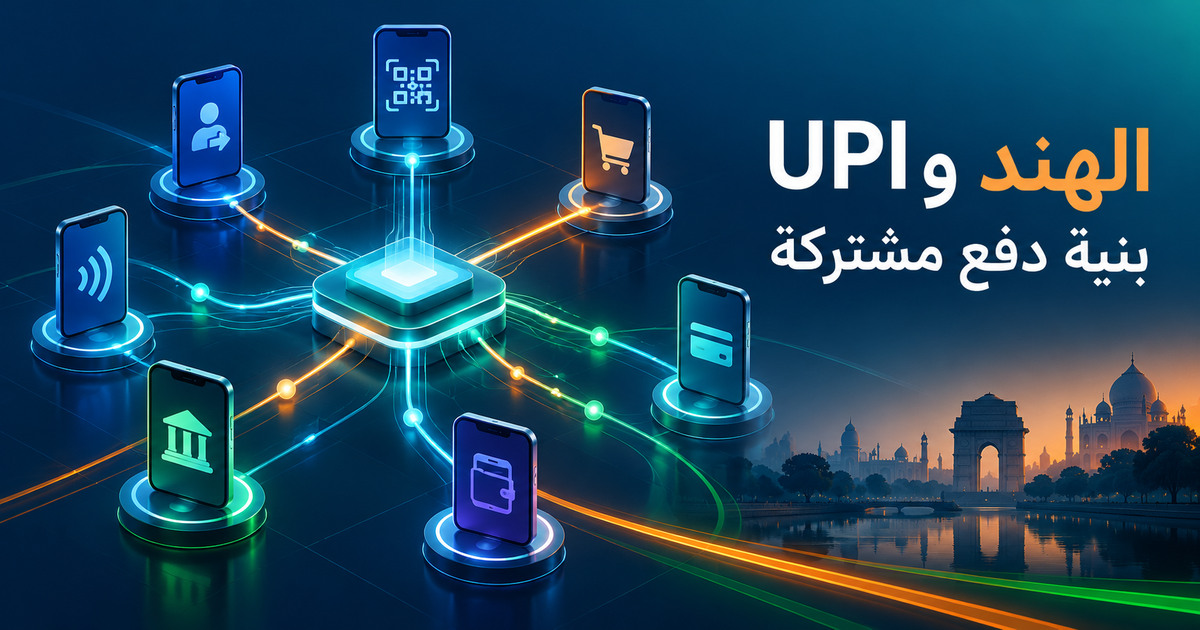
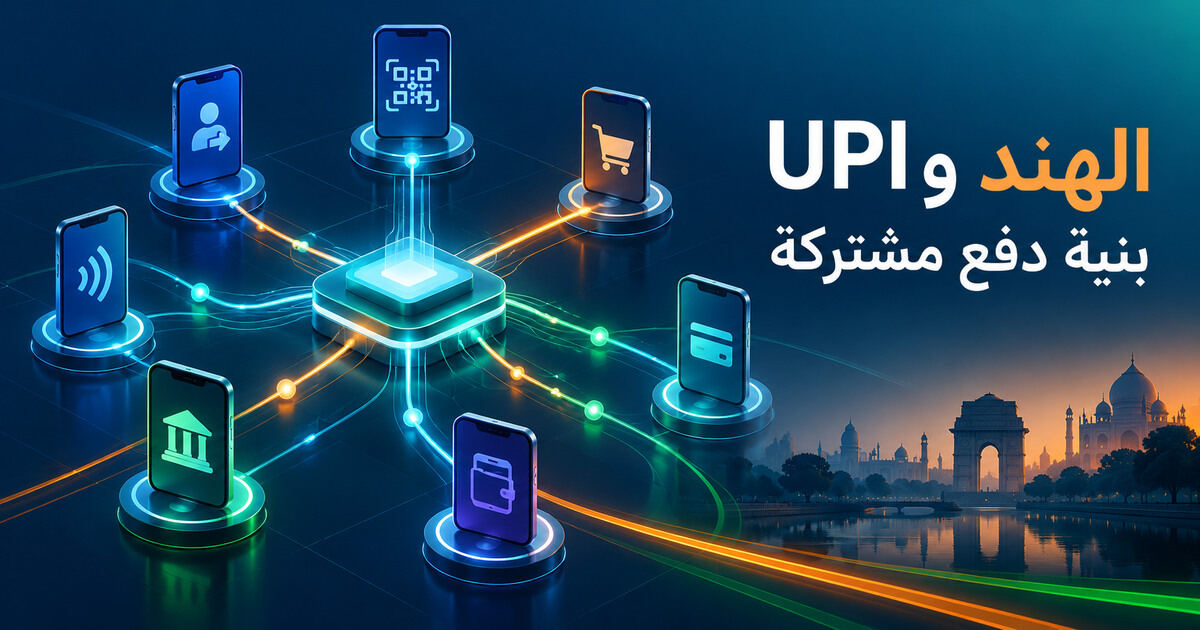
fix(10x): register and optimize India UPI covers

Changed region(s): [[0.9867, 0.6937, 1.0, 0.7238], [0.8942, 0.3016, 0.925, 0.3317], [0.4008, 0.3921, 0.4317, 0.4222]]

diff --git a/case-india-upi-interoperable-payments-infrastructure.html b/case-india-upi-interoperable-payments-infrastructure.html
@@ -1,4 +1,4 @@
-<!doctype html><html lang="ar" dir="rtl"><head><meta charset="utf-8"><meta name="viewport" content="width=device-width,initial-scale=1"><title>كيف حوّلت الهند المدفوعات الفورية إلى بنية مشتركة مفتوحة؟ | التميّز 10X</title><meta name="description" content="تحليل موثق لكيف أعادت الهند تصميم المدفوعات عبر UPI: سكة فورية مشتركة بين المصارف والتطبيقات، ونتائجها وحدود التركّز والاستدامة."><link rel="canonical" href="https://tamayuz10x.com/case-india-upi-interoperable-payments-infrastructure.html"><link rel="alternate" hreflang="ar" href="https://tamayuz10x.com/case-india-upi-interoperable-payments-infrastructure.html"><link rel="alternate" hreflang="en" href="https://tamayuz10x.com/en/case-india-upi-interoperable-payments-infrastructure.html"><link rel="alternate" hreflang="x-default" href="https://tamayuz10x.com/case-india-upi-interoperable-payments-infrastructure.html"><meta property="og:type" content="article"><meta property="og:title" content="كيف حوّلت الهند المدفوعات الفورية إلى بنية مشتركة مفتوحة؟"><meta property="og:description" content="تحليل موثق لكيف أعادت الهند تصميم المدفوعات عبر UPI: سكة فورية مشتركة بين المصارف والتطبيقات، ونتائجها وحدود التركّز والاستدامة."><meta property="og:url" content="https://tamayuz10x.com/case-india-upi-interoperable-payments-infrastructure.html"><meta property="og:image" content="https://tamayuz10x.com/assets/previews/story/case-india-upi-interoperable-payments-infrastructure-ar.jpg?v=20261022-upi"><meta property="og:image:secure_url" content="https://tamayuz10x.com/assets/previews/story/case-india-upi-interoperable-payments-infrastructure-ar.jpg?v=20261022-upi"><meta property="og:image:type" content="image/jpeg"><meta property="og:image:width" content="1200"><meta property="og:image:height" content="630"><meta property="og:image:alt" content="غلاف توضيحي لحالة UPI في الهند، يظهر تطبيقات دفع متعددة متصلة ببنية رقمية مشتركة."><meta property="article:published_time" content="2026-10-22"><meta property="article:modified_time" content="2026-10-22"><meta property="article:author" content="الدكتور علاء محمد أحمد"><meta name="twitter:card" content="summary_large_image"><meta name="twitter:title" content="كيف حوّلت الهند المدفوعات الفورية إلى بنية مشتركة مفتوحة؟"><meta name="twitter:description" content="تحليل موثق لكيف أعادت الهند تصميم المدفوعات عبر UPI: سكة فورية مشتركة بين المصارف والتطبيقات، ونتائجها وحدود التركّز والاستدامة."><meta name="twitter:image" content="https://tamayuz10x.com/assets/previews/story/case-india-upi-interoperable-payments-infrastructure-ar.jpg?v=20261022-upi"><meta name="twitter:image:alt" content="غلاف توضيحي لحالة UPI في الهند، يظهر تطبيقات دفع متعددة متصلة ببنية رقمية مشتركة."><link rel="stylesheet" href="/assets/css/style.css"><link rel="stylesheet" href="/assets/css/story-cards.css?v=20261013-ega-10x"><style>.case{max-width:980px;margin:auto;padding:28px 20px 80px}.case h1{font-size:clamp(2rem,5vw,3.6rem);color:#0b2545}.case h2{color:#0b2545}.case h3{color:#123f5a}.case p,.case li{font-size:1.06rem;line-height:1.95;color:#2d4057}.case section{margin:38px 0}.story-cover img{width:100%;border-radius:22px}.timeline li{margin-bottom:10px}.lang-switch{display:inline-block;margin-bottom:18px;color:#0b2545}.metrics{display:grid;grid-template-columns:repeat(auto-fit,minmax(180px,1fr));gap:14px;margin:30px 0}.metric{background:#eef7f8;border:1px solid #c7e8e7;border-radius:16px;padding:18px}.metric strong{display:block;font-size:1.75rem;color:#0b6170}.metric span{color:#345}</style><script type="application/ld+json">{"@context":"https://schema.org","@graph":[{"@type":"Article","headline":"كيف حوّلت الهند المدفوعات الفورية إلى بنية مشتركة مفتوحة؟","description":"تحليل موثق لكيف أعادت الهند تصميم المدفوعات عبر UPI: سكة فورية مشتركة بين المصارف والتطبيقات، ونتائجها وحدود التركّز والاستدامة.","datePublished":"2026-10-22","dateModified":"2026-10-22","inLanguage":"ar","author":{"@type":"Person","name":"الدكتور علاء محمد أحمد"},"publisher":{"@type":"Organization","name":"التميّز 10X"},"mainEntityOfPage":"https://tamayuz10x.com/case-india-upi-interoperable-payments-infrastructure.html","image":{"@type":"ImageObject","url":"https://tamayuz10x.com/assets/previews/story/case-india-upi-interoperable-payments-infrastructure-ar.jpg?v=20261022-upi","width":1200,"height":630,"caption":"غلاف توضيحي لحالة UPI في الهند، يظهر تطبيقات دفع متعددة متصلة ببنية رقمية مشتركة."}},{"@type":"BreadcrumbList","itemListElement":[{"@type":"ListItem","position":1,"name":"الرئيسية","item":"https://tamayuz10x.com/"},{"@type":"ListItem","position":2,"name":"الحالات","item":"https://tamayuz10x.com/articles.html"},{"@type":"ListItem","position":3,"name":"India UPI","item":"https://tamayuz10x.com/case-india-upi-interoperable-payments-infrastructure.html"}]}]}</script></head><body><main class="case"><a class="lang-switch" href="https://tamayuz10x.com/en/case-india-upi-interoperable-payments-infrastructure.html" hreflang="en">English</a><header><span>حالة 10X · البنية التحتية الرقمية والمدفوعات</span><h1>كيف حوّلت الهند المدفوعات الفورية إلى بنية مشتركة مفتوحة؟</h1><p>لم تكن المشكلة نقص تطبيق آخر للدفع؛ بل غياب طبقة مشتركة تجعل التحويل الفوري ممكنًا عبر المصارف والتطبيقات المختلفة.</p><figure class="story-cover"><img src="/assets/previews/story/case-india-upi-interoperable-payments-infrastructure-ar.jpg?v=20261022-upi" alt="غلاف توضيحي لحالة UPI في الهند، يظهر تطبيقات دفع متعددة متصلة ببنية رقمية مشتركة." width="1200" height="630" decoding="async" fetchpriority="high"></figure><div class="metrics" aria-label="مؤشرات رئيسية"><div class="metric"><strong><span data-count="228.28" data-decimals="2" data-suffix=" مليار">228.28 مليار</span></strong><span>معاملة في 2025</span></div><div class="metric"><strong><span data-count="300" data-decimals="0" data-suffix=" تريليون ₹">300 تريليون ₹</span></strong><span>قيمة معاملات 2025</span></div><div class="metric"><strong><span data-count="84" data-decimals="0" data-suffix="%">84%</span></strong><span>من حجم مدفوعات التجزئة في 2024–2025</span></div><div class="metric"><strong><span data-count="756" data-decimals="0">756</span></strong><span>مصرفًا في سبتمبر 2026</span></div></div></header><article><section><h2>الملخص التنفيذي</h2>
+<!doctype html><html lang="ar" dir="rtl"><head><meta charset="utf-8"><meta name="viewport" content="width=device-width,initial-scale=1"><title>كيف حوّلت الهند المدفوعات الفورية إلى بنية مشتركة مفتوحة؟ | التميّز 10X</title><meta name="description" content="تحليل موثق لكيف أعادت الهند تصميم المدفوعات عبر UPI: سكة فورية مشتركة بين المصارف والتطبيقات، ونتائجها وحدود التركّز والاستدامة."><link rel="canonical" href="https://tamayuz10x.com/case-india-upi-interoperable-payments-infrastructure.html"><link rel="alternate" hreflang="ar" href="https://tamayuz10x.com/case-india-upi-interoperable-payments-infrastructure.html"><link rel="alternate" hreflang="en" href="https://tamayuz10x.com/en/case-india-upi-interoperable-payments-infrastructure.html"><link rel="alternate" hreflang="x-default" href="https://tamayuz10x.com/case-india-upi-interoperable-payments-infrastructure.html"><meta property="og:type" content="article"><meta property="og:title" content="كيف حوّلت الهند المدفوعات الفورية إلى بنية مشتركة مفتوحة؟"><meta property="og:description" content="تحليل موثق لكيف أعادت الهند تصميم المدفوعات عبر UPI: سكة فورية مشتركة بين المصارف والتطبيقات، ونتائجها وحدود التركّز والاستدامة."><meta property="og:url" content="https://tamayuz10x.com/case-india-upi-interoperable-payments-infrastructure.html"><meta property="og:image" content="https://tamayuz10x.com/assets/previews/story/case-india-upi-interoperable-payments-infrastructure-ar.jpg?v=20261013-ega-10x"><meta property="og:image:secure_url" content="https://tamayuz10x.com/assets/previews/story/case-india-upi-interoperable-payments-infrastructure-ar.jpg?v=20261013-ega-10x"><meta property="og:image:type" content="image/jpeg"><meta property="og:image:width" content="1200"><meta property="og:image:height" content="630"><meta property="og:image:alt" content="غلاف توضيحي لحالة UPI في الهند، يظهر تطبيقات دفع متعددة متصلة ببنية رقمية مشتركة."><meta property="article:published_time" content="2026-10-22"><meta property="article:modified_time" content="2026-10-22"><meta property="article:author" content="الدكتور علاء محمد أحمد"><meta name="twitter:card" content="summary_large_image"><meta name="twitter:title" content="كيف حوّلت الهند المدفوعات الفورية إلى بنية مشتركة مفتوحة؟"><meta name="twitter:description" content="تحليل موثق لكيف أعادت الهند تصميم المدفوعات عبر UPI: سكة فورية مشتركة بين المصارف والتطبيقات، ونتائجها وحدود التركّز والاستدامة."><meta name="twitter:image" content="https://tamayuz10x.com/assets/previews/story/case-india-upi-interoperable-payments-infrastructure-ar.jpg?v=20261013-ega-10x"><meta name="twitter:image:alt" content="غلاف توضيحي لحالة UPI في الهند، يظهر تطبيقات دفع متعددة متصلة ببنية رقمية مشتركة."><link rel="stylesheet" href="/assets/css/style.css"><link rel="stylesheet" href="/assets/css/story-cards.css?v=20261013-ega-10x"><style>.case{max-width:980px;margin:auto;padding:28px 20px 80px}.case h1{font-size:clamp(2rem,5vw,3.6rem);color:#0b2545}.case h2{color:#0b2545}.case h3{color:#123f5a}.case p,.case li{font-size:1.06rem;line-height:1.95;color:#2d4057}.case section{margin:38px 0}.story-cover img{width:100%;border-radius:22px}.timeline li{margin-bottom:10px}.lang-switch{display:inline-block;margin-bottom:18px;color:#0b2545}.metrics{display:grid;grid-template-columns:repeat(auto-fit,minmax(180px,1fr));gap:14px;margin:30px 0}.metric{background:#eef7f8;border:1px solid #c7e8e7;border-radius:16px;padding:18px}.metric strong{display:block;font-size:1.75rem;color:#0b6170}.metric span{color:#345}</style><script type="application/ld+json">{"@context":"https://schema.org","@graph":[{"@type":"Article","headline":"كيف حوّلت الهند المدفوعات الفورية إلى بنية مشتركة مفتوحة؟","description":"تحليل موثق لكيف أعادت الهند تصميم المدفوعات عبر UPI: سكة فورية مشتركة بين المصارف والتطبيقات، ونتائجها وحدود التركّز والاستدامة.","datePublished":"2026-10-22","dateModified":"2026-10-22","inLanguage":"ar","author":{"@type":"Person","name":"الدكتور علاء محمد أحمد"},"publisher":{"@type":"Organization","name":"التميّز 10X"},"mainEntityOfPage":"https://tamayuz10x.com/case-india-upi-interoperable-payments-infrastructure.html","image":{"@type":"ImageObject","url":"https://tamayuz10x.com/assets/previews/story/case-india-upi-interoperable-payments-infrastructure-ar.jpg?v=20261013-ega-10x","width":1200,"height":630,"caption":"غلاف توضيحي لحالة UPI في الهند، يظهر تطبيقات دفع متعددة متصلة ببنية رقمية مشتركة."}},{"@type":"BreadcrumbList","itemListElement":[{"@type":"ListItem","position":1,"name":"الرئيسية","item":"https://tamayuz10x.com/"},{"@type":"ListItem","position":2,"name":"الحالات","item":"https://tamayuz10x.com/articles.html"},{"@type":"ListItem","position":3,"name":"India UPI","item":"https://tamayuz10x.com/case-india-upi-interoperable-payments-infrastructure.html"}]}]}</script></head><body><main class="case"><a class="lang-switch" href="https://tamayuz10x.com/en/case-india-upi-interoperable-payments-infrastructure.html" hreflang="en">English</a><header><span>حالة 10X · البنية التحتية الرقمية والمدفوعات</span><h1>كيف حوّلت الهند المدفوعات الفورية إلى بنية مشتركة مفتوحة؟</h1><p>لم تكن المشكلة نقص تطبيق آخر للدفع؛ بل غياب طبقة مشتركة تجعل التحويل الفوري ممكنًا عبر المصارف والتطبيقات المختلفة.</p><figure class="story-cover"><img src="/assets/previews/story/case-india-upi-interoperable-payments-infrastructure-ar.jpg?v=20261013-ega-10x" alt="غلاف توضيحي لحالة UPI في الهند، يظهر تطبيقات دفع متعددة متصلة ببنية رقمية مشتركة." width="1200" height="630" decoding="async" fetchpriority="high"></figure><div class="metrics" aria-label="مؤشرات رئيسية"><div class="metric"><strong><span data-count="228.28" data-decimals="2" data-suffix=" مليار">228.28 مليار</span></strong><span>معاملة في 2025</span></div><div class="metric"><strong><span data-count="300" data-decimals="0" data-suffix=" تريليون ₹">300 تريليون ₹</span></strong><span>قيمة معاملات 2025</span></div><div class="metric"><strong><span data-count="84" data-decimals="0" data-suffix="%">84%</span></strong><span>من حجم مدفوعات التجزئة في 2024–2025</span></div><div class="metric"><strong><span data-count="756" data-decimals="0">756</span></strong><span>مصرفًا في سبتمبر 2026</span></div></div></header><article><section><h2>الملخص التنفيذي</h2>
 <p>لم تكن المشكلة التي واجهتها الهند نقص تطبيق آخر للدفع. كانت المشكلة أن المدفوعات الرقمية قد تتجزأ إلى شبكات مغلقة: لا تتحقق قيمة التطبيق إلا إذا انضم إليه المصرف والعميل والتاجر والطرف الآخر. لذلك لم تبدأ القفزة الحاسمة من واجهة المستخدم، بل من إعادة تصميم البنية التي تتصل بها الواجهات.</p>
 <p>أطلقت المؤسسة الوطنية للمدفوعات في الهند <strong>NPCI</strong>، بتوجيه من بنك الاحتياطي الهندي ومشاركة المصارف، «واجهة المدفوعات الموحدة» <strong>UPI</strong> في أبريل 2016. أتاحت المنظومة تحويل الأموال فورًا بين الحسابات المصرفية المشاركة عبر تطبيقات مختلفة، ضمن قواعد مشاركة ورقابة مشتركة؛ فالانفتاح هنا يعني التشغيل البيني المنظم، لا شبكة بلا ضوابط. ثم وسّعت الوصول من خلال مزودي تطبيقات من خارج المصارف ورموز الاستجابة السريعة <strong>QR</strong> لدى التجار.</p>
 <p>في عام 2025 عالجت UPI نحو <strong>228.28 مليار معاملة</strong> بقيمة <strong>300 تريليون روبية</strong>، وفق تقرير بنك الاحتياطي الهندي المنشور في مايو 2026. وفي سبتمبر 2026 وحده سجلت المؤسسة المشغلة <strong>24.07 مليار معاملة</strong> بقيمة <strong>29.37 تريليون روبية</strong> عبر <strong>756 مصرفًا</strong>. وتُظهر دراسة لصندوق النقد الدولي على بيانات المعاملات أن قابلية التشغيل البيني—أي قدرة المستخدم على الدفع عبر المصارف والتطبيقات المختلفة—أسهمت ماديًا في الانتشار.</p>

diff --git a/en/case-india-upi-interoperable-payments-infrastructure.html b/en/case-india-upi-interoperable-payments-infrastructure.html
@@ -1,4 +1,4 @@
-<!doctype html><html lang="en" dir="ltr"><head><meta charset="utf-8"><meta name="viewport" content="width=device-width,initial-scale=1"><title>How India Turned Instant Payments into Shared Infrastructure | Tamayuz 10X</title><meta name="description" content="An evidence-based analysis of how India redesigned payments through UPI: a shared instant rail across banks and apps, its results, concentration and limits."><link rel="canonical" href="https://tamayuz10x.com/en/case-india-upi-interoperable-payments-infrastructure.html"><link rel="alternate" hreflang="ar" href="https://tamayuz10x.com/case-india-upi-interoperable-payments-infrastructure.html"><link rel="alternate" hreflang="en" href="https://tamayuz10x.com/en/case-india-upi-interoperable-payments-infrastructure.html"><link rel="alternate" hreflang="x-default" href="https://tamayuz10x.com/case-india-upi-interoperable-payments-infrastructure.html"><meta property="og:type" content="article"><meta property="og:title" content="How India Turned Instant Payments into Shared Infrastructure"><meta property="og:description" content="An evidence-based analysis of how India redesigned payments through UPI: a shared instant rail across banks and apps, its results, concentration and limits."><meta property="og:url" content="https://tamayuz10x.com/en/case-india-upi-interoperable-payments-infrastructure.html"><meta property="og:image" content="https://tamayuz10x.com/assets/previews/story/case-india-upi-interoperable-payments-infrastructure-en.jpg?v=20261022-upi"><meta property="og:image:secure_url" content="https://tamayuz10x.com/assets/previews/story/case-india-upi-interoperable-payments-infrastructure-en.jpg?v=20261022-upi"><meta property="og:image:type" content="image/jpeg"><meta property="og:image:width" content="1200"><meta property="og:image:height" content="630"><meta property="og:image:alt" content="Editorial cover for India’s UPI case, showing multiple payment apps connected through shared digital infrastructure."><meta property="article:published_time" content="2026-10-22"><meta property="article:modified_time" content="2026-10-22"><meta property="article:author" content="Dr. Alaa Mohammad Ahmed"><meta name="twitter:card" content="summary_large_image"><meta name="twitter:title" content="How India Turned Instant Payments into Shared Infrastructure"><meta name="twitter:description" content="An evidence-based analysis of how India redesigned payments through UPI: a shared instant rail across banks and apps, its results, concentration and limits."><meta name="twitter:image" content="https://tamayuz10x.com/assets/previews/story/case-india-upi-interoperable-payments-infrastructure-en.jpg?v=20261022-upi"><meta name="twitter:image:alt" content="Editorial cover for India’s UPI case, showing multiple payment apps connected through shared digital infrastructure."><link rel="stylesheet" href="/assets/css/style.css"><link rel="stylesheet" href="/assets/css/story-cards.css?v=20261013-ega-10x"><style>.case{max-width:980px;margin:auto;padding:28px 20px 80px}.case h1{font-size:clamp(2rem,5vw,3.6rem);color:#0b2545}.case h2{color:#0b2545}.case h3{color:#123f5a}.case p,.case li{font-size:1.06rem;line-height:1.95;color:#2d4057}.case section{margin:38px 0}.story-cover img{width:100%;border-radius:22px}.timeline li{margin-bottom:10px}.lang-switch{display:inline-block;margin-bottom:18px;color:#0b2545}.metrics{display:grid;grid-template-columns:repeat(auto-fit,minmax(180px,1fr));gap:14px;margin:30px 0}.metric{background:#eef7f8;border:1px solid #c7e8e7;border-radius:16px;padding:18px}.metric strong{display:block;font-size:1.75rem;color:#0b6170}.metric span{color:#345}</style><script type="application/ld+json">{"@context":"https://schema.org","@graph":[{"@type":"Article","headline":"How India Turned Instant Payments into Shared Infrastructure","description":"An evidence-based analysis of how India redesigned payments through UPI: a shared instant rail across banks and apps, its results, concentration and limits.","datePublished":"2026-10-22","dateModified":"2026-10-22","inLanguage":"en","author":{"@type":"Person","name":"Dr. Alaa Mohammad Ahmed"},"publisher":{"@type":"Organization","name":"Tamayuz 10X"},"mainEntityOfPage":"https://tamayuz10x.com/en/case-india-upi-interoperable-payments-infrastructure.html","image":{"@type":"ImageObject","url":"https://tamayuz10x.com/assets/previews/story/case-india-upi-interoperable-payments-infrastructure-en.jpg?v=20261022-upi","width":1200,"height":630,"caption":"Editorial cover for India’s UPI case, showing multiple payment apps connected through shared digital infrastructure."}},{"@type":"BreadcrumbList","itemListElement":[{"@type":"ListItem","position":1,"name":"Home","item":"https://tamayuz10x.com/en/"},{"@type":"ListItem","position":2,"name":"Cases","item":"https://tamayuz10x.com/en/articles.html"},{"@type":"ListItem","position":3,"name":"India UPI","item":"https://tamayuz10x.com/en/case-india-upi-interoperable-payments-infrastructure.html"}]}]}</script></head><body><main class="case"><a class="lang-switch" href="https://tamayuz10x.com/case-india-upi-interoperable-payments-infrastructure.html" hreflang="ar">العربية</a><header><span>10X Case · Digital Infrastructure and Payments</span><h1>How India Turned Instant Payments into Shared Infrastructure</h1><p>The problem was not a shortage of payment apps, but the absence of a shared layer that made instant transfers work across different banks and interfaces.</p><figure class="story-cover"><img src="/assets/previews/story/case-india-upi-interoperable-payments-infrastructure-en.jpg?v=20261022-upi" alt="Editorial cover for India’s UPI case, showing multiple payment apps connected through shared digital infrastructure." width="1200" height="630" decoding="async" fetchpriority="high"></figure><div class="metrics" aria-label="Key indicators"><div class="metric"><strong><span data-count="228.28" data-decimals="2" data-suffix="bn">228.28bn</span></strong><span>transactions in 2025</span></div><div class="metric"><strong><span data-count="300" data-decimals="0" data-suffix="tn ₹">300tn ₹</span></strong><span>transaction value in 2025</span></div><div class="metric"><strong><span data-count="84" data-decimals="0" data-suffix="%">84%</span></strong><span>of retail-payment volume in FY2024–25</span></div><div class="metric"><strong><span data-count="756" data-decimals="0">756</span></strong><span>banks in September 2026</span></div></div></header><article><section><h2>Executive snapshot</h2>
+<!doctype html><html lang="en" dir="ltr"><head><meta charset="utf-8"><meta name="viewport" content="width=device-width,initial-scale=1"><title>How India Turned Instant Payments into Shared Infrastructure | Tamayuz 10X</title><meta name="description" content="An evidence-based analysis of how India redesigned payments through UPI: a shared instant rail across banks and apps, its results, concentration and limits."><link rel="canonical" href="https://tamayuz10x.com/en/case-india-upi-interoperable-payments-infrastructure.html"><link rel="alternate" hreflang="ar" href="https://tamayuz10x.com/case-india-upi-interoperable-payments-infrastructure.html"><link rel="alternate" hreflang="en" href="https://tamayuz10x.com/en/case-india-upi-interoperable-payments-infrastructure.html"><link rel="alternate" hreflang="x-default" href="https://tamayuz10x.com/case-india-upi-interoperable-payments-infrastructure.html"><meta property="og:type" content="article"><meta property="og:title" content="How India Turned Instant Payments into Shared Infrastructure"><meta property="og:description" content="An evidence-based analysis of how India redesigned payments through UPI: a shared instant rail across banks and apps, its results, concentration and limits."><meta property="og:url" content="https://tamayuz10x.com/en/case-india-upi-interoperable-payments-infrastructure.html"><meta property="og:image" content="https://tamayuz10x.com/assets/previews/story/case-india-upi-interoperable-payments-infrastructure-en.jpg?v=20261013-ega-10x"><meta property="og:image:secure_url" content="https://tamayuz10x.com/assets/previews/story/case-india-upi-interoperable-payments-infrastructure-en.jpg?v=20261013-ega-10x"><meta property="og:image:type" content="image/jpeg"><meta property="og:image:width" content="1200"><meta property="og:image:height" content="630"><meta property="og:image:alt" content="Editorial cover for India’s UPI case, showing multiple payment apps connected through shared digital infrastructure."><meta property="article:published_time" content="2026-10-22"><meta property="article:modified_time" content="2026-10-22"><meta property="article:author" content="Dr. Alaa Mohammad Ahmed"><meta name="twitter:card" content="summary_large_image"><meta name="twitter:title" content="How India Turned Instant Payments into Shared Infrastructure"><meta name="twitter:description" content="An evidence-based analysis of how India redesigned payments through UPI: a shared instant rail across banks and apps, its results, concentration and limits."><meta name="twitter:image" content="https://tamayuz10x.com/assets/previews/story/case-india-upi-interoperable-payments-infrastructure-en.jpg?v=20261013-ega-10x"><meta name="twitter:image:alt" content="Editorial cover for India’s UPI case, showing multiple payment apps connected through shared digital infrastructure."><link rel="stylesheet" href="/assets/css/style.css"><link rel="stylesheet" href="/assets/css/story-cards.css?v=20261013-ega-10x"><style>.case{max-width:980px;margin:auto;padding:28px 20px 80px}.case h1{font-size:clamp(2rem,5vw,3.6rem);color:#0b2545}.case h2{color:#0b2545}.case h3{color:#123f5a}.case p,.case li{font-size:1.06rem;line-height:1.95;color:#2d4057}.case section{margin:38px 0}.story-cover img{width:100%;border-radius:22px}.timeline li{margin-bottom:10px}.lang-switch{display:inline-block;margin-bottom:18px;color:#0b2545}.metrics{display:grid;grid-template-columns:repeat(auto-fit,minmax(180px,1fr));gap:14px;margin:30px 0}.metric{background:#eef7f8;border:1px solid #c7e8e7;border-radius:16px;padding:18px}.metric strong{display:block;font-size:1.75rem;color:#0b6170}.metric span{color:#345}</style><script type="application/ld+json">{"@context":"https://schema.org","@graph":[{"@type":"Article","headline":"How India Turned Instant Payments into Shared Infrastructure","description":"An evidence-based analysis of how India redesigned payments through UPI: a shared instant rail across banks and apps, its results, concentration and limits.","datePublished":"2026-10-22","dateModified":"2026-10-22","inLanguage":"en","author":{"@type":"Person","name":"Dr. Alaa Mohammad Ahmed"},"publisher":{"@type":"Organization","name":"Tamayuz 10X"},"mainEntityOfPage":"https://tamayuz10x.com/en/case-india-upi-interoperable-payments-infrastructure.html","image":{"@type":"ImageObject","url":"https://tamayuz10x.com/assets/previews/story/case-india-upi-interoperable-payments-infrastructure-en.jpg?v=20261013-ega-10x","width":1200,"height":630,"caption":"Editorial cover for India’s UPI case, showing multiple payment apps connected through shared digital infrastructure."}},{"@type":"BreadcrumbList","itemListElement":[{"@type":"ListItem","position":1,"name":"Home","item":"https://tamayuz10x.com/en/"},{"@type":"ListItem","position":2,"name":"Cases","item":"https://tamayuz10x.com/en/articles.html"},{"@type":"ListItem","position":3,"name":"India UPI","item":"https://tamayuz10x.com/en/case-india-upi-interoperable-payments-infrastructure.html"}]}]}</script></head><body><main class="case"><a class="lang-switch" href="https://tamayuz10x.com/case-india-upi-interoperable-payments-infrastructure.html" hreflang="ar">العربية</a><header><span>10X Case · Digital Infrastructure and Payments</span><h1>How India Turned Instant Payments into Shared Infrastructure</h1><p>The problem was not a shortage of payment apps, but the absence of a shared layer that made instant transfers work across different banks and interfaces.</p><figure class="story-cover"><img src="/assets/previews/story/case-india-upi-interoperable-payments-infrastructure-en.jpg?v=20261013-ega-10x" alt="Editorial cover for India’s UPI case, showing multiple payment apps connected through shared digital infrastructure." width="1200" height="630" decoding="async" fetchpriority="high"></figure><div class="metrics" aria-label="Key indicators"><div class="metric"><strong><span data-count="228.28" data-decimals="2" data-suffix="bn">228.28bn</span></strong><span>transactions in 2025</span></div><div class="metric"><strong><span data-count="300" data-decimals="0" data-suffix="tn ₹">300tn ₹</span></strong><span>transaction value in 2025</span></div><div class="metric"><strong><span data-count="84" data-decimals="0" data-suffix="%">84%</span></strong><span>of retail-payment volume in FY2024–25</span></div><div class="metric"><strong><span data-count="756" data-decimals="0">756</span></strong><span>banks in September 2026</span></div></div></header><article><section><h2>Executive snapshot</h2>
 <p>India did not need one more payment app. It needed to prevent digital payments from fragmenting into closed networks, where an app is useful only if the bank, customer, merchant and counterparty all join the same environment. The decisive move therefore began below the interface: redesign the infrastructure to which interfaces connect.</p>
 <p>The National Payments Corporation of India (NPCI), promoted by banks under Reserve Bank of India guidance, launched the Unified Payments Interface (UPI) in April 2016. It enabled instant transfers between participating bank accounts through different apps under shared participation and oversight rules. “Open” in this case means regulated interoperability, not an unrestricted network. Third-party app providers and merchant QR codes subsequently broadened access.</p>
 <p>In 2025, UPI processed <strong>228.28 billion transactions</strong> worth <strong>₹300 trillion</strong>, according to an RBI report published in May 2026. In September 2026 alone, NPCI recorded <strong>24.07 billion transactions</strong> worth <strong>₹29.37 trillion</strong> across <strong>756 banks</strong>. An International Monetary Fund study using granular transaction data found evidence consistent with interoperability—the ability to pay across banks and apps—materially supporting adoption.</p>

diff --git a/articles.html b/articles.html
@@ -16,7 +16,7 @@
 <div aria-label="أدوات البحث والتصفية" class="article-tools"><div class="article-search-wrap"><label for="article-search">ابحث في المحتوى</label><input autocomplete="off" class="article-search" id="article-search" placeholder="اكتب كلمة أو عبارة…" type="search"/></div><div><label for="topic-filter">الموضوع</label><select id="topic-filter"><option value="all">كل الموضوعات</option></select></div><div><label for="date-filter">تاريخ النشر</label><select id="date-filter"><option value="all">كل التواريخ</option><option value="today">اليوم</option><option value="week">هذا الأسبوع</option><option value="month">هذا الشهر</option><option value="3months">آخر 3 أشهر</option><option value="year">هذه السنة</option></select></div><div><label for="read-filter">مدة القراءة</label><select id="read-filter"><option value="all">كل المدد</option><option value="quick">سريعة · حتى 3 دقائق</option><option value="medium">متوسطة · 4–7 دقائق</option><option value="deep">متعمقة · 8 دقائق فأكثر</option></select></div><div><label for="sort-filter">ترتيب حسب</label><select id="sort-filter"><option value="newest">الأحدث</option><option value="oldest">الأقدم</option><option value="shortest">الأقصر قراءة</option></select></div></div><div class="article-results-bar"><span aria-live="polite" id="article-results-count"></span><button class="clear-filters" id="clear-article-filters" type="button">مسح الفلاتر</button></div>
 <div class="article-grid" id="article-grid">
 <article data-story-card="true" class="article-card" data-category="quranic life ethics dignity service" data-date="2026-10-21" data-href="reflection-al-baqarah-giving-without-harm.html" data-read-minutes="8" data-topic="تأملات قرآنية العطاء الصدقة المن الأذى الكرامة الخصوصية سورة البقرة"><a class="article-preview" href="/reflection-al-baqarah-giving-without-harm.html" aria-label="متى تفقد العطية معناها؟"><img src="/assets/previews/story/reflection-al-baqarah-giving-without-harm-ar.jpg?v=20261013-ega-10x" alt="غلاف رمزي بالكحلي والذهبي لتأمل العطاء بلا منّ أو أذى، يظهر يدين مفتوحتين تحفظان دائرة مضيئة داخل قوس واقٍ يرمز إلى الكرامة." width="1200" height="630" loading="lazy" decoding="async"></a><div class="article-meta"><span class="tag">تأملات قرآنية</span><span>8 دقائق قراءة</span><time datetime="2026-10-21">21 أكتوبر 2026</time></div><h3><a href="/reflection-al-baqarah-giving-without-harm.html">متى تفقد العطية معناها؟</a></h3><p><a href="/reflection-al-baqarah-giving-without-harm.html">كيف يُحفظ العطاء من المنّ والأذى، وتصل المساعدة من غير أن تدفع الكرامة ثمنها؟</a></p><a class="article-action" href="/reflection-al-baqarah-giving-without-harm.html">اقرأ التأمل ←</a></article>
-<article data-story-card="true" class="article-card" data-category="case innovation leadership technology management" data-date="2026-10-22" data-href="case-india-upi-interoperable-payments-infrastructure.html" data-read-minutes="9" data-topic="الهند UPI المدفوعات الفورية البنية التحتية الرقمية التشغيل البيني NPCI"><a class="article-preview" href="/case-india-upi-interoperable-payments-infrastructure.html" aria-label="كيف حوّلت الهند المدفوعات الفورية إلى بنية مشتركة مفتوحة؟"><img src="/assets/previews/story/case-india-upi-interoperable-payments-infrastructure-ar.jpg?v=20261022-upi" alt="غلاف توضيحي لحالة UPI في الهند، يظهر تطبيقات دفع متعددة متصلة ببنية رقمية مشتركة." width="1200" height="630" loading="lazy" decoding="async"></a><div class="article-meta"><span class="tag">حالة 10X · البنية التحتية الرقمية والمدفوعات</span><span>9 دقائق قراءة</span><time datetime="2026-10-22">22 أكتوبر 2026</time></div><h3><a href="/case-india-upi-interoperable-payments-infrastructure.html">كيف حوّلت الهند المدفوعات الفورية إلى بنية مشتركة مفتوحة؟</a></h3><p><a href="/case-india-upi-interoperable-payments-infrastructure.html">لم تكن القفزة في تطبيق جديد، بل في سكة مشتركة جعلت المصارف والتطبيقات تتنافس فوق بنية واحدة.</a></p><a class="article-action" href="/case-india-upi-interoperable-payments-infrastructure.html">اكتشف كيف تغيرت بنية السوق ←</a></article>
+<article data-story-card="true" class="article-card" data-category="case innovation leadership technology management" data-date="2026-10-22" data-href="case-india-upi-interoperable-payments-infrastructure.html" data-read-minutes="9" data-topic="الهند UPI المدفوعات الفورية البنية التحتية الرقمية التشغيل البيني NPCI"><a class="article-preview" href="/case-india-upi-interoperable-payments-infrastructure.html" aria-label="كيف حوّلت الهند المدفوعات الفورية إلى بنية مشتركة مفتوحة؟"><img src="/assets/previews/story/case-india-upi-interoperable-payments-infrastructure-ar.jpg?v=20261013-ega-10x" alt="غلاف توضيحي لحالة UPI في الهند، يظهر تطبيقات دفع متعددة متصلة ببنية رقمية مشتركة." width="1200" height="630" loading="lazy" decoding="async"></a><div class="article-meta"><span class="tag">حالة 10X · البنية التحتية الرقمية والمدفوعات</span><span>9 دقائق قراءة</span><time datetime="2026-10-22">22 أكتوبر 2026</time></div><h3><a href="/case-india-upi-interoperable-payments-infrastructure.html">كيف حوّلت الهند المدفوعات الفورية إلى بنية مشتركة مفتوحة؟</a></h3><p><a href="/case-india-upi-interoperable-payments-infrastructure.html">لم تكن القفزة في تطبيق جديد، بل في سكة مشتركة جعلت المصارف والتطبيقات تتنافس فوق بنية واحدة.</a></p><a class="article-action" href="/case-india-upi-interoperable-payments-infrastructure.html">اكتشف كيف تغيرت بنية السوق ←</a></article>
 <article data-story-card="true" class="article-card" data-category="case sustainability innovation leadership" data-date="2026-10-21" data-href="case-singapore-newater-water-reuse.html" data-read-minutes="10" data-topic="سنغافورة NEWater إعادة استخدام المياه الاقتصاد الدائري الأغشية الأمن المائي PUB"><a class="article-preview" href="/case-singapore-newater-water-reuse.html" aria-label="كيف حوّلت سنغافورة المياه المستخدمة إلى مورد وطني؟"><img src="/assets/previews/story/case-singapore-newater-water-reuse-ar.jpg?v=20261013-ega-10x" alt="غلاف توضيحي بالكحلي والفيروزي لحالة NEWater، يظهر قطرة ماء داخل حلقة إعادة استخدام." width="1200" height="630" loading="lazy" decoding="async"></a><div class="article-meta"><span class="tag">حالة 10X · المياه والاقتصاد الدائري</span><span>10 دقائق قراءة</span><time datetime="2026-10-21">21 أكتوبر 2026</time></div><h3><a href="/case-singapore-newater-water-reuse.html">كيف حوّلت سنغافورة المياه المستخدمة إلى مورد وطني؟</a></h3><p><a href="/case-singapore-newater-water-reuse.html">لم تكن القيمة في الأغشية وحدها؛ بل في بناء حلقة تشغيل تربط الاستعادة والجودة والطلب الصناعي والثقة.</a></p><a class="article-action" href="/case-singapore-newater-water-reuse.html">اكتشف كيف بُنيت الحلقة ←</a></article>
 
 <article data-story-card="true" class="article-card" data-category="quranic life leadership management" data-date="2026-10-20" data-href="reflection-al-baqarah-write-it-down.html" data-read-minutes="8" data-topic="تأملات قرآنية التوثيق العدل الثقة الحقوق الذاكرة آية الدين سورة البقرة"><a class="article-preview" href="/reflection-al-baqarah-write-it-down.html" aria-label="لماذا نكتب ما اتفقنا عليه إذا كنا نثق بعضنا ببعض؟"><img src="/assets/previews/story/reflection-al-baqarah-write-it-down-ar.jpg?v=20261013-ega-10x" alt="غلاف توضيحي بالكحلي والذهبي لتأمل آية الدَّين، يظهر دفترًا مفتوحًا وقلم حبر وظل ميزان وقطعتين ذهبيتين ترمزان إلى طرفي اتفاق." width="1200" height="630" loading="lazy" decoding="async"></a><div class="article-meta"><span class="tag">تأملات قرآنية</span><span>8 دقائق قراءة</span><time datetime="2026-10-20">20 أكتوبر 2026</time></div><h3><a href="/reflection-al-baqarah-write-it-down.html">لماذا نكتب ما اتفقنا عليه إذا كنا نثق بعضنا ببعض؟</a></h3><p><a href="/reflection-al-baqarah-write-it-down.html">تأمل في آية الدَّين: كيف تحفظ الكتابة العادلة الحقوق والذاكرة والعلاقات، ولماذا لا يكون التوثيق نقيضًا للثقة؟</a></p><a class="article-action" href="/reflection-al-baqarah-write-it-down.html">اقرأ التأمل ←</a></article>

diff --git a/en/articles.html b/en/articles.html
@@ -15,7 +15,7 @@
 <div aria-label="Search &amp; Filtering Tools" class="article-tools"><div class="article-search-wrap"><label for="article-search">Search Content</label><input autocomplete="off" class="article-search" id="article-search" placeholder="Write a word or phrase..." type="search"/></div><div><label for="topic-filter">Topic</label><select id="topic-filter"><option value="all">All Topics</option></select></div><div><label for="date-filter">Date published</label><select id="date-filter"><option value="all">All Dates</option><option value="today">Today</option><option value="week">This week</option><option value="month">This month</option><option value="3months">Last 3 months</option><option value="year">This year</option></select></div><div><label for="read-filter">Reading time</label><select id="read-filter"><option value="all">Any length</option><option value="quick">Quick · up to 3 min</option><option value="medium">Medium · 4–7 min</option><option value="deep">In-depth · 8+ min</option></select></div><div><label for="sort-filter">Sort by</label><select id="sort-filter"><option value="newest">Newest</option><option value="oldest">Oldest</option><option value="shortest">Shortest read</option></select></div></div><div class="article-results-bar"><span aria-live="polite" id="article-results-count"></span><button class="clear-filters" id="clear-article-filters" type="button">Clear Filters</button></div>
 <div class="article-grid" id="article-grid">
 <article data-story-card="true" class="article-card" data-category="quranic life ethics dignity service" data-date="2026-10-21" data-href="reflection-al-baqarah-giving-without-harm.html" data-read-minutes="9" data-topic="Qur’anic reflection giving charity reminders injury dignity privacy Surah Al-Baqarah"><a class="article-preview" href="/en/reflection-al-baqarah-giving-without-harm.html" aria-label="When Does a Gift Lose Its Meaning?"><img src="/assets/previews/story/reflection-al-baqarah-giving-without-harm-en.jpg?v=20261013-ega-10x" alt="Navy and gold symbolic cover for a reflection on giving without reminders or injury, showing two open hands protecting a warm circle beneath a safeguarding arc." width="1200" height="630" loading="lazy" decoding="async"></a><div class="article-meta"><span class="tag">Qur’anic Reflection</span><span>9 min read</span><time datetime="2026-10-21">21 October 2026</time></div><h3><a href="/en/reflection-al-baqarah-giving-without-harm.html">When Does a Gift Lose Its Meaning?</a></h3><p><a href="/en/reflection-al-baqarah-giving-without-harm.html">How can charity remain free of reminders and injury, and help arrive without dignity paying the price?</a></p><a class="article-action" href="/en/reflection-al-baqarah-giving-without-harm.html">Read the reflection</a></article>
-<article data-story-card="true" class="article-card" data-category="case innovation leadership technology management" data-date="2026-10-22" data-href="case-india-upi-interoperable-payments-infrastructure.html" data-read-minutes="9" data-topic="India UPI instant payments digital infrastructure interoperability NPCI"><a class="article-preview" href="/en/case-india-upi-interoperable-payments-infrastructure.html" aria-label="How India Turned Instant Payments into Shared Infrastructure"><img src="/assets/previews/story/case-india-upi-interoperable-payments-infrastructure-en.jpg?v=20261022-upi" alt="Editorial cover for India’s UPI case, showing multiple payment apps connected through shared digital infrastructure." width="1200" height="630" loading="lazy" decoding="async"></a><div class="article-meta"><span class="tag">10X Case · Digital Infrastructure and Payments</span><span>9 min read</span><time datetime="2026-10-22">22 October 2026</time></div><h3><a href="/en/case-india-upi-interoperable-payments-infrastructure.html">How India Turned Instant Payments into Shared Infrastructure</a></h3><p><a href="/en/case-india-upi-interoperable-payments-infrastructure.html">The leap was not another app, but a shared rail that let banks and interfaces compete above common infrastructure.</a></p><a class="article-action" href="/en/case-india-upi-interoperable-payments-infrastructure.html">Explore how the market architecture changed →</a></article>
+<article data-story-card="true" class="article-card" data-category="case innovation leadership technology management" data-date="2026-10-22" data-href="case-india-upi-interoperable-payments-infrastructure.html" data-read-minutes="9" data-topic="India UPI instant payments digital infrastructure interoperability NPCI"><a class="article-preview" href="/en/case-india-upi-interoperable-payments-infrastructure.html" aria-label="How India Turned Instant Payments into Shared Infrastructure"><img src="/assets/previews/story/case-india-upi-interoperable-payments-infrastructure-en.jpg?v=20261013-ega-10x" alt="Editorial cover for India’s UPI case, showing multiple payment apps connected through shared digital infrastructure." width="1200" height="630" loading="lazy" decoding="async"></a><div class="article-meta"><span class="tag">10X Case · Digital Infrastructure and Payments</span><span>9 min read</span><time datetime="2026-10-22">22 October 2026</time></div><h3><a href="/en/case-india-upi-interoperable-payments-infrastructure.html">How India Turned Instant Payments into Shared Infrastructure</a></h3><p><a href="/en/case-india-upi-interoperable-payments-infrastructure.html">The leap was not another app, but a shared rail that let banks and interfaces compete above common infrastructure.</a></p><a class="article-action" href="/en/case-india-upi-interoperable-payments-infrastructure.html">Explore how the market architecture changed →</a></article>
 <article data-story-card="true" class="article-card" data-category="case sustainability innovation leadership" data-date="2026-10-21" data-href="case-singapore-newater-water-reuse.html" data-read-minutes="10" data-topic="Singapore NEWater water reuse circular economy membranes water security PUB"><a class="article-preview" href="/en/case-singapore-newater-water-reuse.html" aria-label="How Did Singapore Turn Used Water into a National Resource?"><img src="/assets/previews/story/case-singapore-newater-water-reuse-en.jpg?v=20261013-ega-10x" alt="Navy and turquoise editorial cover for the NEWater case, showing a water drop inside a reuse loop." width="1200" height="630" loading="lazy" decoding="async"></a><div class="article-meta"><span class="tag">10X Case · Water and Circular Economy</span><span>10 min read</span><time datetime="2026-10-21">21 October 2026</time></div><h3><a href="/en/case-singapore-newater-water-reuse.html">How Did Singapore Turn Used Water into a National Resource?</a></h3><p><a href="/en/case-singapore-newater-water-reuse.html">The value was not in membranes alone, but in an operating loop connecting recovery, assurance, industrial demand and trust.</a></p><a class="article-action" href="/en/case-singapore-newater-water-reuse.html">Explore how the loop was built →</a></article>
 
 <article data-story-card="true" class="article-card" data-category="quranic life leadership management" data-date="2026-10-20" data-href="reflection-al-baqarah-write-it-down.html" data-read-minutes="9" data-topic="Qur’anic reflection documentation justice trust rights memory debt verse Surah Al-Baqarah"><a class="article-preview" href="/en/reflection-al-baqarah-write-it-down.html" aria-label="If We Trust One Another, Why Write It Down?"><img src="/assets/previews/story/reflection-al-baqarah-write-it-down-en.jpg?v=20261013-ega-10x" alt="Navy and gold editorial cover for a reflection on the debt verse, showing an open ledger, an ink pen, the shadow of balanced scales and two gold markers representing parties to an agreement." width="1200" height="630" loading="lazy" decoding="async"></a><div class="article-meta"><span class="tag">Qur’anic Reflection</span><span>9 min read</span><time datetime="2026-10-20">20 October 2026</time></div><h3><a href="/en/reflection-al-baqarah-write-it-down.html">If We Trust One Another, Why Write It Down?</a></h3><p><a href="/en/reflection-al-baqarah-write-it-down.html">A reflection on the debt verse: how fair documentation protects rights, memory and relationships without displacing trust.</a></p><a class="article-action" href="/en/reflection-al-baqarah-write-it-down.html">Read the reflection</a></article>
